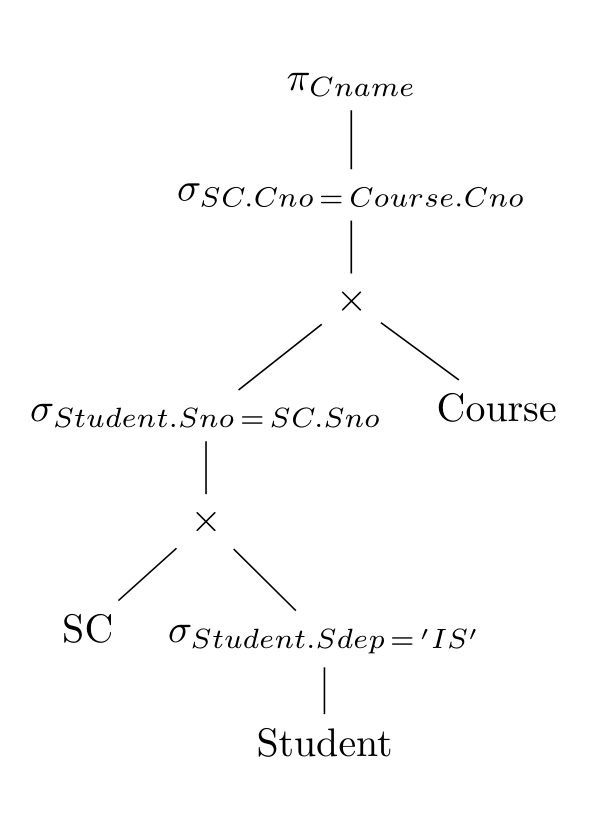
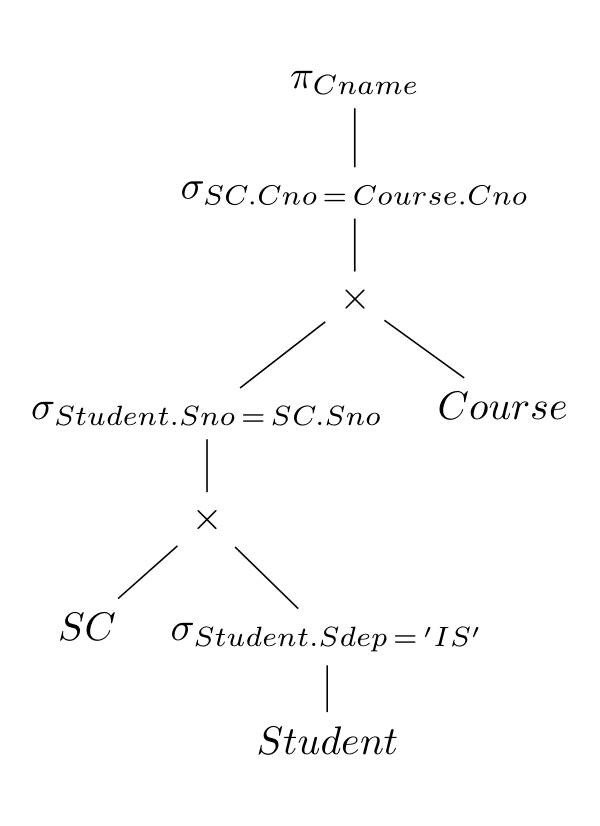
:art: Optimize A Relation Algebra Syntax Tree Typography Detail

diff --git a/LaTeX/Database/relation-algebra-syntax-tree.tex b/LaTeX/Database/relation-algebra-syntax-tree.tex
@@ -11,13 +11,13 @@
 			[$\times$
 				[$\sigma_{Student.Sno\,=\,SC.Sno}$
 					[$\times$
-						[SC]
+						[$SC$]
 						[$\sigma_{Student.Sdep\,=\,'IS'}$
-							[Student]
+							[$Student$]
 						]
 					]
 				]
-				[{Course}]
+				[{$Course$}]
 			]
 		]
 	]
